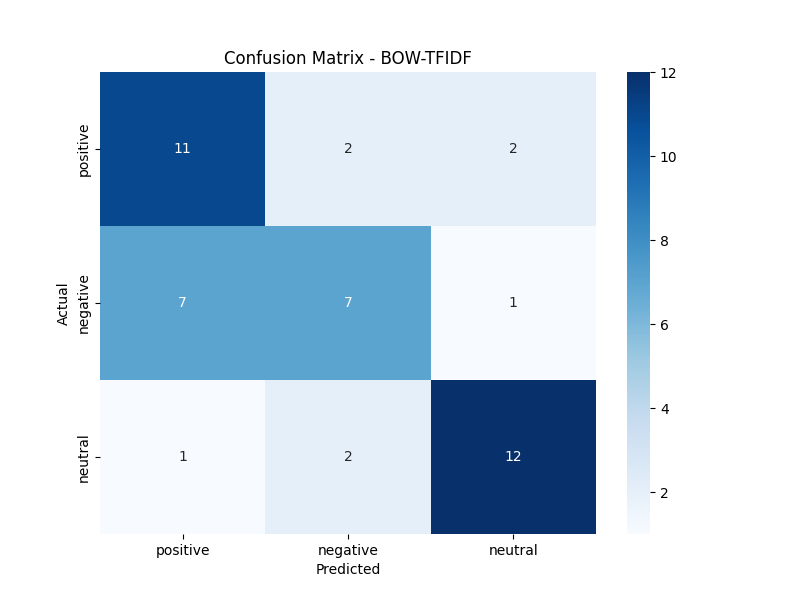
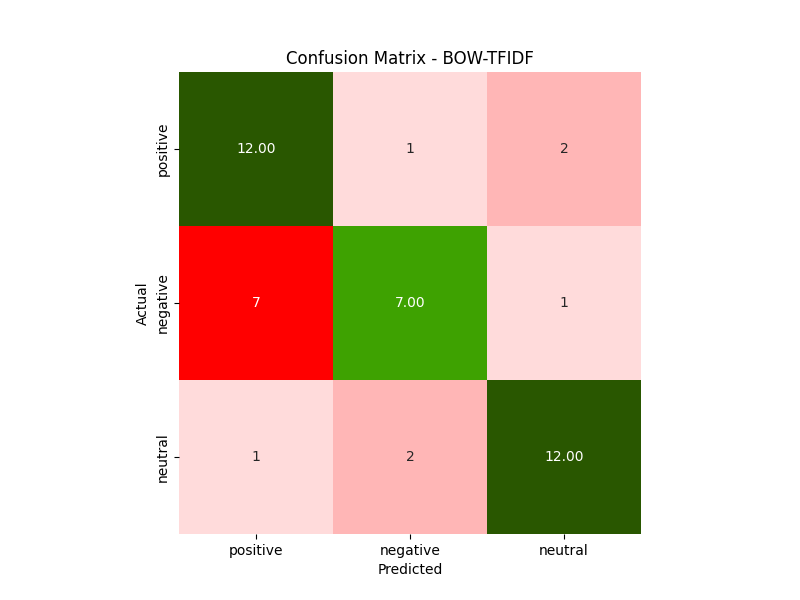
adding colors to the confusion matrix

diff --git a/main.py b/main.py
@@ -7,7 +7,9 @@ from models.word2vec_model import Word2VecClassifier
 from models.bow_tfidf_model import BoWTfidfClassifier
 from utils.metrics import generate_confusion_matrix, calculate_metrics
 import matplotlib.pyplot as plt
+from matplotlib.colors import LinearSegmentedColormap
 import seaborn as sns
+import numpy as np
 
 # Carregar dados
 train_data = pd.read_csv('data/reviews_train.csv')
@@ -45,17 +47,39 @@ print("\nMetric calculate - BOW-TFIDF:")
 for metric, value in metrics.items():
     print(f"{metric}: {value}")
 
+# Função para exibir e salvar a matriz de confusão com colormap de verde para vermelho
+def plot_confusion_matrix(matrix, title, filename, labels):
+    # Criando um colormap customizado para a diagonal (vermelho-verde) e os não-diagonais (verde-vermelho)
+    cmap_diag = LinearSegmentedColormap.from_list("diag_red_green", ["#3EA201", "#295700"])  # Para a diagonal
+    cmap_offdiag = LinearSegmentedColormap.from_list("offdiag_green_red", ["white", "red"])  # Para os não-diagonais
 
-# Função para exibir e salvar a matriz de confusão
-def plot_confusion_matrix(matrix, title, filename):
     plt.figure(figsize=(8, 6))
-    sns.heatmap(matrix, annot=True, fmt='d', cmap='Blues', xticklabels=labels, yticklabels=labels)
+
+    # Criando uma matriz modificada como tipo float para permitir o uso de NaN
+    modified_matrix = matrix.astype(np.float32)
+    
+    # Criando uma cópia da matriz para aplicar NaN nos valores fora da diagonal
+    off_diag_matrix = np.copy(modified_matrix)
+    np.fill_diagonal(off_diag_matrix, np.nan)  # Definindo NaN na diagonal
+
+    # Plotando a matriz fora da diagonal com o colormap verde-vermelho
+    sns.heatmap(off_diag_matrix, annot=True, cmap=cmap_offdiag, mask=np.isnan(off_diag_matrix), 
+                xticklabels=labels, yticklabels=labels, cbar=False, square=True, vmin=0)
+
+    # Criando uma máscara para a diagonal e fora da diagonal
+    diag_mask = np.eye(matrix.shape[0], dtype=bool)
+
+    # Plotando a diagonal com o colormap vermelho-verde
+    sns.heatmap(modified_matrix, annot=True, fmt='.2f', cmap=cmap_diag, mask=~diag_mask, 
+                xticklabels=labels, yticklabels=labels, cbar=False, square=True)
+
     plt.title(title)
     plt.xlabel('Predicted')
     plt.ylabel('Actual')
     plt.savefig(filename)
     plt.show()
 
-# Gerar as imagens da matriz de confusão
-plot_confusion_matrix(w2v_conf_matrix, 'Confusion Matrix - Word2Vec', 'confusion_matrix_w2v.png')
-plot_confusion_matrix(bow_conf_matrix, 'Confusion Matrix - BOW-TFIDF', 'confusion_matrix_bow.png')
+
+# Gerar as imagens da matriz de confusão com colormap verde-vermelho
+plot_confusion_matrix(w2v_conf_matrix, 'Confusion Matrix - Word2Vec', 'confusion_matrix_w2v.png', labels)
+plot_confusion_matrix(bow_conf_matrix, 'Confusion Matrix - BOW-TFIDF', 'confusion_matrix_bow.png', labels)
